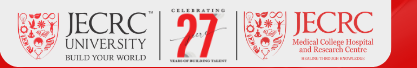
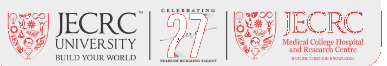
Remove outer black border and use CID inline script for Welcome Aboard in email template

diff --git a/src/lib/email-templates.ts b/src/lib/email-templates.ts
@@ -10,6 +10,7 @@ export interface FacultyEmailData {
   photoUrl?: string; // Web URL or base64 or cid:facultyPhoto
   customBody?: string;
   bannerLogoUrl?: string;
+  welcomeAboardUrl?: string;
   hostUrl?: string;
 }
 
@@ -29,6 +30,7 @@ export function generateFacultyWelcomeEmailHtml(data: FacultyEmailData): string 
     photoUrl = "/emailer-assets/sample-professor.png",
     customBody,
     bannerLogoUrl,
+    welcomeAboardUrl,
   } = data;
 
   // Determine pronouns intelligently based on title or prefix
@@ -39,7 +41,6 @@ export function generateFacultyWelcomeEmailHtml(data: FacultyEmailData): string 
     name.toLowerCase().includes("dr. (ms.)");
   const pronounSubject = isFemale ? "she" : "he";
   const pronounPossessive = isFemale ? "her" : "his";
-  const pronounObject = isFemale ? "her" : "him";
 
   // Build the body content (either custom or default official template)
   const bodyContentHtml = customBody
@@ -85,49 +86,44 @@ export function generateFacultyWelcomeEmailHtml(data: FacultyEmailData): string 
   <link href="https://fonts.googleapis.com/css2?family=Caveat:wght@600;700&family=Great+Vibes&family=Plus+Jakarta+Sans:wght@400;600;700;800&display=swap" rel="stylesheet">
   <style type="text/css">
     @media only screen and (max-width: 640px) {
-      .main-table { width: 100% !important; }
+      .main-table { width: 100% !important; border-radius: 0 !important; }
       .photo-frame { width: 210px !important; height: 230px !important; }
       .name-heading { font-size: 22px !important; }
       .content-padding { padding: 24px 18px 28px 18px !important; }
-      .welcome-script { font-size: 38px !important; }
+      .welcome-script { font-size: 36px !important; }
     }
   </style>
 </head>
-<body style="margin: 0; padding: 0; background-color: #1a0206; font-family: 'Plus Jakarta Sans', 'Segoe UI', Roboto, Helvetica, Arial, sans-serif; -webkit-font-smoothing: antialiased;">
-  <!-- Outer Wrapper Table -->
-  <table width="100%" border="0" cellpadding="0" cellspacing="0" style="background-color: #1a0206; padding: 24px 12px;">
+<body style="margin: 0; padding: 0; background-color: #ffffff; font-family: 'Plus Jakarta Sans', 'Segoe UI', Roboto, Helvetica, Arial, sans-serif; -webkit-font-smoothing: antialiased;">
+  <!-- Outer Wrapper Table: Clean White Background to Eliminate Side Black Borders -->
+  <table width="100%" border="0" cellpadding="0" cellspacing="0" style="background-color: #ffffff; margin: 0; padding: 12px 0;">
     <tr>
-      <td align="center" valign="top">
+      <td align="center" valign="top" style="padding: 0 8px;">
         
         <!-- Main Email Container Card -->
-        <table class="main-table" width="620" border="0" cellpadding="0" cellspacing="0" style="width: 620px; max-width: 620px; background: #b8001f; background: linear-gradient(160deg, #9e0017 0%, #c8102e 45%, #880012 100%); border-radius: 24px; overflow: hidden; box-shadow: 0 20px 40px rgba(0,0,0,0.4); border: 1px solid rgba(255,255,255,0.15);">
+        <table class="main-table" width="620" border="0" cellpadding="0" cellspacing="0" style="width: 620px; max-width: 620px; margin: 0 auto; background: #b8001f; background: linear-gradient(160deg, #9e0017 0%, #c8102e 45%, #880012 100%); border-radius: 20px; overflow: hidden; box-shadow: 0 10px 30px rgba(0,0,0,0.15); border: 1px solid rgba(184,0,31,0.2);">
           
           <!-- Row 1: Top White Rounded Header Pill -->
           <tr>
             <td align="center" style="padding: 0 20px;">
-              <table width="100%" border="0" cellpadding="0" cellspacing="0" style="max-width: 490px; margin: 0 auto; background-color: #ffffff; border-radius: 0 0 20px 20px; box-shadow: 0 6px 16px rgba(0,0,0,0.18);">
+              <table width="100%" border="0" cellpadding="0" cellspacing="0" style="max-width: 480px; margin: 0 auto; background-color: #ffffff; border-radius: 0 0 18px 18px; box-shadow: 0 4px 14px rgba(0,0,0,0.12);">
                 <tr>
-                  <td align="center" style="padding: 10px 16px;">
+                  <td align="center" style="padding: 8px 16px;">
                     ${
                       bannerLogoUrl
-                        ? `<img src="${bannerLogoUrl}" alt="JECRC University Header" width="440" style="display: block; width: 100%; max-width: 440px; height: auto; border: 0;" />`
+                        ? `<img src="${bannerLogoUrl}" alt="JECRC University Header" width="420" style="display: block; width: 100%; max-width: 420px; height: auto; border: 0;" />`
                         : `
                         <table width="100%" border="0" cellpadding="0" cellspacing="0">
                           <tr>
-                            <!-- JECRC University Logo -->
                             <td align="left" valign="middle" style="width: 38%; padding: 4px 6px;">
                               <img src="${data.hostUrl || ""}/jecrc-logo.png" alt="JECRC University" width="135" style="display: block; width: 100%; max-width: 135px; height: auto; border: 0;" />
                             </td>
-                            <!-- Divider 1 -->
                             <td align="center" valign="middle" style="width: 1px; background-color: #d1d5db; height: 36px;"></td>
-                            <!-- 27 Years Milestone -->
                             <td align="center" valign="middle" style="width: 24%; padding: 4px 8px; text-align: center;">
-                              <div style="font-family: Georgia, serif; font-size: 26px; font-weight: bold; color: #c8102e; line-height: 1; letter-spacing: -1px;">27</div>
+                              <div style="font-family: Georgia, serif; font-size: 26px; font-weight: bold; color: #c8102e; line-height: 1;">27</div>
                               <div style="font-size: 8px; font-weight: 700; color: #374151; text-transform: uppercase; letter-spacing: 0.5px; line-height: 1.1; margin-top: 2px;">Celebrating Years Of Building Talent</div>
                             </td>
-                            <!-- Divider 2 -->
                             <td align="center" valign="middle" style="width: 1px; background-color: #d1d5db; height: 36px;"></td>
-                            <!-- JECRC Medical College -->
                             <td align="right" valign="middle" style="width: 36%; padding: 4px 6px; text-align: right;">
                               <div style="font-family: Georgia, serif; font-size: 14px; font-weight: bold; color: #c8102e; line-height: 1.1;">JECRC</div>
                               <div style="font-size: 8px; font-weight: 600; color: #1f2937; line-height: 1.2;">Medical College Hospital &amp; Research Centre</div>
@@ -142,18 +138,18 @@ export function generateFacultyWelcomeEmailHtml(data: FacultyEmailData): string 
             </td>
           </tr>
 
-          <!-- Row 2: Elegant Cursive "Welcome Aboard" Headline -->
+          <!-- Row 2: "Welcome Aboard" Headline (Image with Fallback Font for Gmail/Outlook) -->
           <tr>
-            <td align="center" style="padding: 24px 20px 14px 20px;">
-              <table border="0" cellpadding="0" cellspacing="0">
-                <tr>
-                  <td align="center">
-                    <span class="welcome-script" style="font-family: 'Great Vibes', 'Caveat', 'Brush Script MT', 'Dancing Script', cursive; font-size: 48px; color: #ffffff; line-height: 1.2; text-shadow: 0 2px 10px rgba(0,0,0,0.35); display: block;">
-                      Welcome Aboard
-                    </span>
-                  </td>
-                </tr>
-              </table>
+            <td align="center" style="padding: 22px 20px 12px 20px;">
+              ${
+                welcomeAboardUrl
+                  ? `<img src="${welcomeAboardUrl}" alt="Welcome Aboard" width="280" style="display: block; margin: 0 auto; max-width: 280px; width: 100%; height: auto; border: 0;" />`
+                  : `
+                  <span class="welcome-script" style="font-family: 'Brush Script MT', 'Great Vibes', 'Caveat', cursive; font-size: 46px; color: #ffffff; line-height: 1.2; text-shadow: 0 2px 8px rgba(0,0,0,0.3); display: block;">
+                    Welcome Aboard
+                  </span>
+                  `
+              }
             </td>
           </tr>
 
@@ -163,8 +159,8 @@ export function generateFacultyWelcomeEmailHtml(data: FacultyEmailData): string 
               <table width="100%" border="0" cellpadding="0" cellspacing="0">
                 <tr>
                   <!-- Left Architectural Accent Line -->
-                  <td align="right" valign="bottom" style="width: 30%; padding-bottom: 30px; padding-right: 16px;">
-                    <div style="height: 100px; width: 2px; background-color: rgba(255,255,255,0.4); margin-left: auto;"></div>
+                  <td align="right" valign="bottom" style="width: 30%; padding-bottom: 28px; padding-right: 16px;">
+                    <div style="height: 90px; width: 2px; background-color: rgba(255,255,255,0.45); margin-left: auto;"></div>
                   </td>
 
                   <!-- Center Arched Photo Frame -->
@@ -172,8 +168,8 @@ export function generateFacultyWelcomeEmailHtml(data: FacultyEmailData): string 
                     <table border="0" cellpadding="0" cellspacing="0">
                       <tr>
                         <td align="center" style="padding-bottom: 0;">
-                          <div class="photo-frame" style="width: 240px; height: 265px; border-radius: 120px 120px 0 0; background-color: #ffffff; overflow: hidden; border: 4px solid #ffffff; box-shadow: 0 10px 25px rgba(0,0,0,0.3);">
-                            <img src="${photoUrl}" alt="${escapeHtml(name)}" width="240" height="265" style="display: block; width: 100%; height: 100%; object-fit: cover; border-radius: 116px 116px 0 0; border: 0;" />
+                          <div class="photo-frame" style="width: 235px; height: 260px; border-radius: 120px 120px 0 0; background-color: #ffffff; overflow: hidden; border: 4px solid #ffffff; box-shadow: 0 10px 25px rgba(0,0,0,0.25);">
+                            <img src="${photoUrl}" alt="${escapeHtml(name)}" width="235" height="260" style="display: block; width: 100%; height: 100%; object-fit: cover; border-radius: 116px 116px 0 0; border: 0;" />
                           </div>
                         </td>
                       </tr>
@@ -181,8 +177,8 @@ export function generateFacultyWelcomeEmailHtml(data: FacultyEmailData): string 
                   </td>
 
                   <!-- Right Architectural Accent Line -->
-                  <td align="left" valign="bottom" style="width: 30%; padding-bottom: 30px; padding-left: 16px;">
-                    <div style="height: 100px; width: 2px; background-color: rgba(255,255,255,0.4); margin-right: auto;"></div>
+                  <td align="left" valign="bottom" style="width: 30%; padding-bottom: 28px; padding-left: 16px;">
+                    <div style="height: 90px; width: 2px; background-color: rgba(255,255,255,0.45); margin-right: auto;"></div>
                   </td>
                 </tr>
               </table>
@@ -191,10 +187,10 @@ export function generateFacultyWelcomeEmailHtml(data: FacultyEmailData): string 
 
           <!-- Row 4: Announcement Content Card -->
           <tr>
-            <td align="center" style="padding: 0 20px 24px 20px;">
-              <table width="100%" border="0" cellpadding="0" cellspacing="0" style="background-color: #f1f2f5; border-radius: 18px; box-shadow: 0 12px 28px rgba(0,0,0,0.18);">
+            <td align="center" style="padding: 0 18px 22px 18px;">
+              <table width="100%" border="0" cellpadding="0" cellspacing="0" style="background-color: #f1f2f5; border-radius: 16px; box-shadow: 0 8px 24px rgba(0,0,0,0.12);">
                 <tr>
-                  <td class="content-padding" style="padding: 28px 36px 36px 36px;">
+                  <td class="content-padding" style="padding: 26px 32px 32px 32px;">
                     
                     <!-- Professor Name -->
                     <table width="100%" border="0" cellpadding="0" cellspacing="0">
@@ -214,7 +210,7 @@ export function generateFacultyWelcomeEmailHtml(data: FacultyEmailData): string 
                     </table>
 
                     <!-- Divider -->
-                    <table width="100%" border="0" cellpadding="0" cellspacing="0" style="margin: 20px 0 22px 0;">
+                    <table width="100%" border="0" cellpadding="0" cellspacing="0" style="margin: 18px 0 20px 0;">
                       <tr>
                         <td style="border-bottom: 1px solid #e2e8f0;"></td>
                       </tr>
@@ -231,15 +227,15 @@ export function generateFacultyWelcomeEmailHtml(data: FacultyEmailData): string 
 
           <!-- Row 5: Official Footer -->
           <tr>
-            <td align="center" style="padding: 0 24px 24px 24px;">
+            <td align="center" style="padding: 0 20px 20px 20px;">
               <table width="100%" border="0" cellpadding="0" cellspacing="0">
                 <tr>
-                  <td align="center" style="font-size: 11px; color: rgba(255,255,255,0.7); line-height: 1.6; text-align: center;">
+                  <td align="center" style="font-size: 11px; color: rgba(255,255,255,0.8); line-height: 1.6; text-align: center;">
                     <div style="font-weight: 700; color: #ffffff; letter-spacing: 0.5px; text-transform: uppercase;">
                       JECRC University, Jaipur
                     </div>
                     <div>Plot No. IS-2036 to 2039, Ramchandrapura Industrial Area, Vidhani, Jaipur, Rajasthan 303905</div>
-                    <div style="margin-top: 6px;">
+                    <div style="margin-top: 5px;">
                       <a href="https://jecrcuniversity.edu.in" target="_blank" style="color: #ffffff; text-decoration: underline; font-weight: 600;">jecrcuniversity.edu.in</a>
                       &nbsp;|&nbsp;
                       Official Faculty Announcement Dispatch

diff --git a/src/app/api/faculty/send-email/route.ts b/src/app/api/faculty/send-email/route.ts
@@ -110,11 +110,30 @@ export async function POST(req: Request) {
 
     const hasBannerCid = attachments.some((a) => a.cid === "jecrcBanner");
 
+    // Welcome Aboard headline attachment
+    try {
+      const welcomePath = path.join(process.cwd(), "public", "emailer-assets", "welcome-aboard-clean.png");
+      if (fs.existsSync(welcomePath)) {
+        const welcomeBuffer = fs.readFileSync(welcomePath);
+        attachments.push({
+          filename: "welcome-aboard.png",
+          content: welcomeBuffer,
+          cid: "welcomeAboard",
+          contentType: "image/png",
+        });
+      }
+    } catch (e) {
+      // continue
+    }
+
+    const hasWelcomeCid = attachments.some((a) => a.cid === "welcomeAboard");
+
     // Generate HTML with CID image sources
     const htmlEmail = generateFacultyWelcomeEmailHtml({
       ...facultyData,
       photoUrl: photoImgSrc,
       bannerLogoUrl: hasBannerCid ? "cid:jecrcBanner" : undefined,
+      welcomeAboardUrl: hasWelcomeCid ? "cid:welcomeAboard" : undefined,
     });
 
     const subject = `Welcome Aboard - ${facultyData.name} | JECRC University`;

diff --git a/src/app/components/FacultyEmailerTab.tsx b/src/app/components/FacultyEmailerTab.tsx
@@ -345,6 +345,7 @@ export default function FacultyEmailerTab({ isDark, smtpConfig, setSmtpConfig }:
     ...facultyForm,
     photoUrl: photoPreview,
     bannerLogoUrl: getAssetUrl("/emailer-assets/jecrc-banner-clean.png"),
+    welcomeAboardUrl: getAssetUrl("/emailer-assets/welcome-aboard-clean.png"),
   });
 
   // Copy HTML
